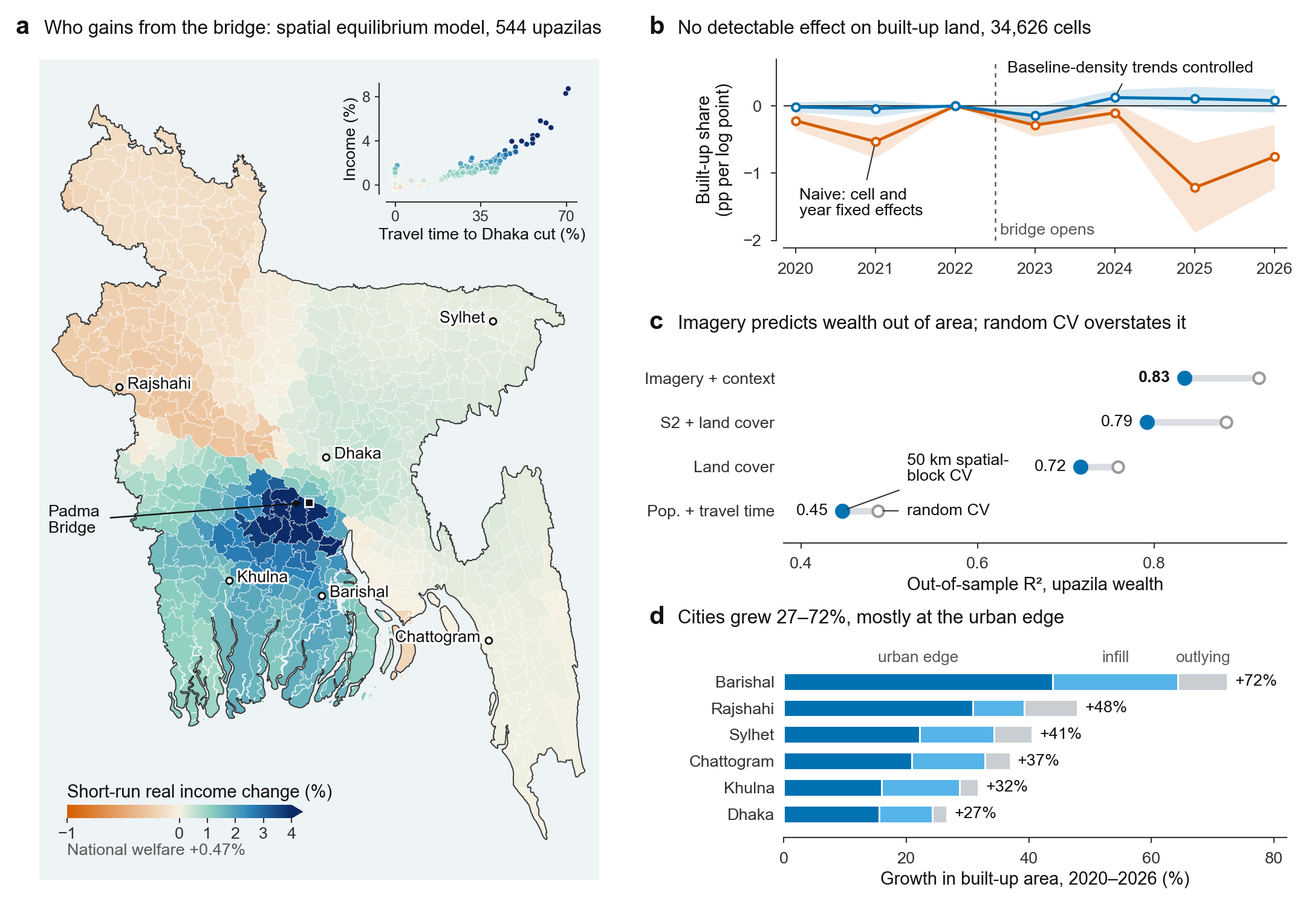
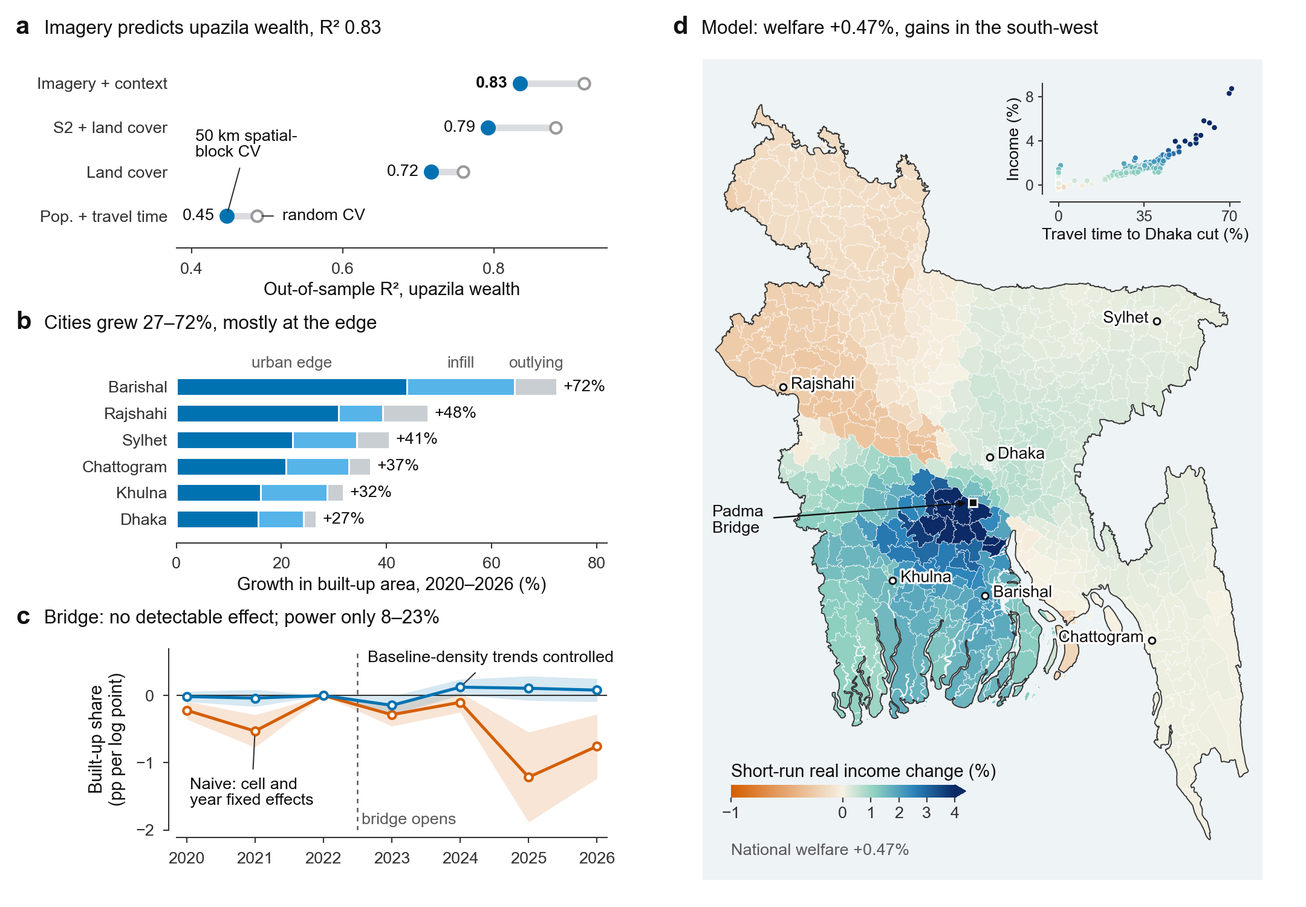
README: organise around one question in four steps; reorder Figure 1 to match

diff --git a/figures/make_figure1.py b/figures/make_figure1.py
@@ -1,4 +1,5 @@
-"""Figure 1 of the README: a map of the model-implied income change with three supporting panels.
+"""Figure 1 of the README: the four steps of the study, measurement (a), description (b), evaluation (c) and
+interpretation (d), with the model map as the large panel.
 
 Drawn from the committed result tables. The map needs the GADM 4.1 level-3 boundaries of Bangladesh
 (gadm41_BGD_3.json, from gadm.org), which are not stored in this repository.
@@ -53,7 +54,7 @@ def detach(ax):
         ax.spines[side].set_position(("outward", 3))
 
 
-def letter(fig, ax, s, title, x=0.497):
+def letter(fig, ax, s, title, x=0.012):
     box = ax.get_position()
     fig.text(x, box.y1 + 0.022, s, fontsize=10, fontweight="bold", va="bottom")
     fig.text(x + 0.022, box.y1 + 0.0235, title, fontsize=7.5, va="bottom")
@@ -73,7 +74,7 @@ def draw():
     g = gpd.read_file(GADM3)[["GID_3", "geometry"]]
     g = g[g.GID_3.isin(U)].copy()
     g["inc"] = [float(U[k]["real_income_sr_pct"]) for k in g.GID_3]
-    a = fig.add_axes([0.012, 0.03, 0.465, 0.905])
+    a = fig.add_axes([0.515, 0.03, 0.475, 0.905])
     a.set_facecolor(SEA)
     g.plot(column="inc", cmap=INCOME, norm=NORM, ax=a, edgecolor="white", linewidth=0.15)
     with warnings.catch_warnings():
@@ -93,7 +94,7 @@ def draw():
     a.set_xticks([]); a.set_yticks([])
     for s in a.spines.values():
         s.set_visible(False)
-    cax = a.inset_axes([0.05, 0.075, 0.42, 0.016])
+    cax = a.inset_axes([0.05, 0.10, 0.42, 0.016])
     cb = fig.colorbar(matplotlib.cm.ScalarMappable(norm=NORM, cmap=INCOME), cax=cax, orientation="horizontal",
                       ticks=[-1, 0, 1, 2, 3, 4], extend="max")
     cb.outline.set_visible(False); cb.ax.tick_params(length=2, width=0.5, labelsize=6.5, pad=1.5)
@@ -109,12 +110,12 @@ def draw():
     ins.set_ylabel("Income (%)", fontsize=6.5, labelpad=1.5)
     ins.set_xticks([0, 35, 70]); ins.set_yticks([0, 4, 8]); ins.tick_params(labelsize=6, length=1.8, pad=1.5)
     detach(ins)
-    fig.text(0.012, 0.957, "a", fontsize=10, fontweight="bold", va="bottom")
-    fig.text(0.034, 0.9585, f"Who gains from the bridge: spatial equilibrium model, {len(g)} upazilas", fontsize=7.5,
+    fig.text(0.515, 0.957, "d", fontsize=10, fontweight="bold", va="bottom")
+    fig.text(0.537, 0.9585, f"Model: welfare +{Q['welfare_sr_pct']:.2f}%, gains in the south-west", fontsize=7.5,
              va="bottom")
 
-    X0, W, H = 0.60, 0.385, 0.20
-    b, c, d = (fig.add_axes([X0, y, W, H]) for y in (0.735, 0.41, 0.085))
+    X0, W, H = 0.135, 0.33, 0.20
+    c, d, b = (fig.add_axes([X0, y, W, H]) for y in (0.735, 0.41, 0.085))
 
     # ---- b: event study, naive against controlled, shaded 95% intervals
     E = [r for r in rows(TB / "padma_event_study.csv") if r["sample"].startswith("2020-2026")]
@@ -133,7 +134,7 @@ def draw():
     leader(b, (2024, series["(2)"][-3][1]), (2022.65, 0.56), "Baseline-density trends controlled", ha="left")
     b.set_xlim(2019.85, 2026.15); b.set_ylim(-2.0, 0.7); b.set_xticks(range(2020, 2027)); b.set_yticks([-2, -1, 0])
     b.set_ylabel("Built-up share\n(pp per log point)")
-    detach(b); letter(fig, b, "b", "No detectable effect on built-up land, 34,626 cells")
+    detach(b); letter(fig, b, "c", "Bridge: no detectable effect; power only 8–23%")
 
     # ---- c: wealth prediction by feature set, spatial-block against random cross-validation
     Wr = [r for r in rows(TB / "wealth_prediction_results.csv") if r["target"] == "rwi"]
@@ -149,13 +150,13 @@ def draw():
         c.text(sp[k] - 0.016, i, f"{sp[k]:.2f}", ha="right", va="center", fontsize=6.5,
                fontweight="bold" if i == len(order) - 1 else "normal")
     top = len(order) - 1
-    leader(c, (sp[order[0]], 0), (0.52, 0.95), "50 km spatial-\nblock CV", linespacing=1.1, ha="left")
+    leader(c, (sp[order[0]], 0), (0.405, 1.62), "50 km spatial-\nblock CV", linespacing=1.1, ha="left")
     leader(c, (rd[order[0]], 0), (0.52, 0.0), "random CV", ha="left")
     c.set_yticks(range(len(order)), [names[k] for k in order]); c.tick_params(axis="y", length=0)
     c.set_xlim(0.38, 0.95); c.set_ylim(-0.55, top + 0.55); c.set_xticks([0.4, 0.6, 0.8])
     c.set_xlabel("Out-of-sample R², upazila wealth", labelpad=2)
     c.spines["left"].set_visible(False); c.spines["bottom"].set_position(("outward", 3))
-    letter(fig, c, "c", "Imagery predicts wealth out of area; random CV overstates it")
+    letter(fig, c, "a", "Imagery predicts upazila wealth, R² 0.83")
 
     # ---- d: built-up growth by city and where the new building is
     U0 = sorted(rows(TB / "urban_expansion_summary.csv"), key=lambda r: float(r["growth_pct"]))
@@ -174,7 +175,7 @@ def draw():
     d.set_xlim(0, 82); d.set_ylim(-0.6, len(U0) + 0.25); d.set_xticks([0, 20, 40, 60, 80])
     d.set_xlabel("Growth in built-up area, 2020–2026 (%)", labelpad=2)
     d.spines["left"].set_visible(False); d.spines["bottom"].set_position(("outward", 3))
-    letter(fig, d, "d", "Cities grew 27–72%, mostly at the urban edge")
+    letter(fig, d, "b", "Cities grew 27–72%, mostly at the edge")
     return fig
 
 

diff --git a/README.md b/README.md
@@ -1,85 +1,72 @@
-# Urban growth, wealth mapping and the Padma Bridge in Bangladesh
+# Can open satellite data evaluate a major transport investment? The Padma Bridge, Bangladesh
 
 [![tests](https://github.com/lyz44git/bangladesh-geoai/actions/workflows/tests.yml/badge.svg)](https://github.com/lyz44git/bangladesh-geoai/actions/workflows/tests.yml)
 
-<img src="figures/figure1.png" alt="Four-panel figure: map of model-implied income change by upazila with an inset against travel-time reduction; Padma Bridge event study; wealth-prediction accuracy by feature set; built-up growth by city." width="100%">
+**Short answer: it can measure, but four years in it cannot yet evaluate.** Free Sentinel-2 imagery measures built-up
+land well enough for city monitoring (F1 = 0.80) and predicts sub-district wealth well enough for geographic targeting
+(out-of-area R² = 0.83). Four years after the Padma Bridge opened, the same imagery shows no detectable change in
+built-up land. A calibrated spatial model explains why: the effect it predicts is one the evaluation design has only
+8–23% power to detect. The model puts the national welfare gain at +0.47%, concentrated in the south-west.
 
-**Figure 1 | Headline results.** **a**, Short-run real income change implied by the spatial equilibrium model, by upazila; the square marks the Padma Bridge and national welfare rises by 0.47%. Inset: the same change against the reduction in travel time to Dhaka, one point per upazila. **b**, Event-study estimates of the bridge's effect on built-up share with 95% intervals (shaded) across 34,626 cells; 2022 is the reference year, and the negative naive estimates disappear once trends by baseline density are controlled. **c**, Out-of-sample R² for upazila wealth by feature set under 50 km spatial-block cross-validation (filled) and random cross-validation (open). **d**, Growth in built-up area, 2020–2026, in the six largest cities, split by where the new building is. Drawn by [`figures/make_figure1.py`](figures/make_figure1.py) from `outputs/tables`, `docs/atlas` and the GADM 4.1 boundaries, which are not stored here.
+<img src="figures/figure1.png" alt="Four panels following the study's four steps: wealth-prediction accuracy by feature set; built-up growth in six cities; event study of the bridge's effect on built-up land; map of model-implied income change by upazila." width="100%">
 
-A Python package and pipeline that uses open satellite and geospatial data to measure urban expansion, map
-sub-district wealth, and evaluate the Padma Bridge (opened 25 June 2022) with a difference-in-differences design and
-a quantitative spatial equilibrium model.
+**Figure 1 | From measurement to evaluation.** **a**, Measurement: out-of-sample R² for upazila wealth by feature
+set under 50 km spatial-block (filled) and random (open) cross-validation. **b**, Description: growth in built-up
+area in the six largest cities, 2020–2026, split by where the new building is. **c**, Evaluation: event-study
+estimates of the bridge's effect on built-up share across 34,626 cells with 95% intervals (shaded), 2022 as
+reference; the negative naive estimates vanish once trends by baseline density are controlled. **d**,
+Interpretation: short-run real income change implied by the spatial equilibrium model, by upazila (square: the
+bridge); inset, the same change against the reduction in travel time to Dhaka. Drawn by
+[`figures/make_figure1.py`](figures/make_figure1.py) from the committed result tables and the GADM 4.1 boundaries,
+which are not stored here.
 
-> **Takeaway.** Free Sentinel-2 imagery measures built-up land well enough for city-level monitoring (F1 = 0.80) and
-> for allocating resources across sub-districts (out-of-area R² = 0.83), but four years of built-up imagery cannot
-> detect the bridge's effect: the estimate is a null with 8–23% power against the effect a calibrated spatial model
-> implies. The model puts the national welfare gain at +0.47%, concentrated in the south-west.
+Full write-up: [`docs/TECHNICAL_REPORT_EN.md`](docs/TECHNICAL_REPORT_EN.md) · Indicator atlas for 544 upazilas:
+[`docs/atlas/ATLAS.md`](docs/atlas/ATLAS.md)
 
-Full write-up: [`docs/TECHNICAL_REPORT_EN.md`](docs/TECHNICAL_REPORT_EN.md). Indicator atlas for 544 upazilas:
-[`docs/atlas/ATLAS.md`](docs/atlas/ATLAS.md) and [`docs/atlas/upazila_indicators.csv`](docs/atlas/upazila_indicators.csv).
+## The question
 
-## Questions
+The Padma Bridge, a 6.15 km road-rail bridge opened on 25 June 2022, replaced ferry crossings that often involved
+hours of queueing and connected the south-western divisions to Dhaka. Ex-ante appraisals projected national GDP gains
+above 1%. Household surveys that could check this arrive years later; satellite imagery is free, annual and covers
+every upazila. The study asks whether that imagery can support an early evaluation, in four steps, each a
+precondition for the next:
 
-1. **Measurement.** Can open satellite imagery measure urban growth and local wealth reliably, year by year, at
-   sub-district (upazila) level?
-2. **Spatial structure.** Are Bangladesh's largest cities growing by densification or by expansion at the edge?
-3. **Market access.** Did the Padma Bridge change where building happens in its first four years, how large are the
-   welfare gains a spatial model implies, and does the short-run evidence contradict the model?
+| Step | Question | Approach | Answer |
+|---|---|---|---|
+| 1. Measure | Is imagery accurate enough for annual measures of built-up land and wealth? | U-Net trained on WorldCover labels; wealth prediction under 50 km spatial-block cross-validation | Yes, for city monitoring and upazila-level targeting |
+| 2. Describe | What does it show where change is large? | Built-up area in the six largest cities, 2020–2026 | Growth of 27–72%, mostly at the urban edge |
+| 3. Evaluate | Did the bridge change where building happens? | Continuous-treatment difference-in-differences and event study, 34,626 cells × 7 seasons | No detectable effect once selection on trends is removed |
+| 4. Interpret | Is the null evidence that the bridge had no effect? | Two-sector spatial equilibrium model of 544 upazilas; power of the design against the model's prediction | No: 8–23% power; the model implies a welfare gain of +0.47% |
 
-## Data
+## 1. Measurement is accurate enough for monitoring and targeting
 
-All inputs are openly available. No data are stored in this repository; the scripts stream or download them.
-
-| Source | Use | Licence |
-|---|---|---|
-| Sentinel-2 L2A (ESA/Copernicus), via AWS Open Data and the Earth Search STAC API | Annual dry-season composites, 2018–2026 | Copernicus Sentinel data terms (free use with attribution) |
-| ESA WorldCover 2020 and 2021, 10 m | Built-up training labels, land-cover shares, water mask | CC BY 4.0 |
-| Meta Relative Wealth Index (Chi et al. 2022), via HDX | Wealth-mapping target (26,544 grid points) | CC BY-NC 4.0 |
-| Flowminder/WorldPop Bangladesh 1 km poverty map (2011) | Alternative target and external benchmark | CC BY 4.0 |
-| Meta/CIESIN High Resolution Settlement Layer | Population by cell and upazila | CC BY 4.0 |
-| Overture Maps transportation | Road, rail and ferry network for the travel-time model | ODbL 1.0 |
-| GADM 4.1 | Districts and upazilas | Free for academic and non-commercial use; no redistribution |
-
-Attribution: contains modified Copernicus Sentinel data (2018–2026); © ESA WorldCover project / contains modified
-Copernicus Sentinel data (2020, 2021) processed by the ESA WorldCover consortium; © OpenStreetMap contributors,
-Overture Maps Foundation.
-
-No boundary files or source rasters are redistributed here. Tables, maps and the atlas in `outputs/` and `docs/` are
-derived aggregates; those that include the Relative Wealth Index inherit its non-commercial terms, and the maps use
-GADM boundaries under its academic-use terms.
-
-**Use.** This is a non-commercial research project. The data and all derived outputs in this repository are used
-for research only.
-
-## Method
-
-| Module | Code | What it does |
-|---|---|---|
-| Compositing | `src/geoai/stac.py`, `composite.py` | Phenology-balanced dry-season composites with orbit-aware scene selection and gap filling |
-| Built-up mapping | `builtup.py`, `labels.py`, `scripts/02_builtup.py` | U-Net and gradient-boosting classifiers trained on WorldCover labels, validated on spatially held-out blocks |
-| Urban expansion | `scripts/03_urban_expansion.py` | Growth, infill / edge / outlying decomposition, radial density gradients, temporal-consistency diagnostics |
-| Wealth mapping | `features.py`, `mosaiks.py`, `models.py`, `scripts/05_wealth.py` | Predicting the Relative Wealth Index from imagery under 50 km spatial-block cross-validation |
-| Travel time | `travel.py`, `scripts/04_travel_time.py` | 500 m least-cost travel time to Dhaka with and without the bridge |
-| Causal design | `econ.py`, `scripts/06_padma_causal.py` | Continuous-treatment difference-in-differences and event study on 34,626 cells × 7 seasons, with randomization inference |
-| Spatial model | `qse.py`, `scripts/07_spatial_model.py` | Two-sector quantitative spatial equilibrium for 544 upazilas, solved by exact hat algebra; sensitivity and Bayesian reweighting |
-| Power | `scripts/09_power.py` | Power of the causal design against the model-implied effect |
-
-## Results
-
-### Measurement
-
-| Built-up classifier, six cities pooled (held-out blocks) | Precision | Recall | F1 |
+| Built-up classifier, six cities pooled (spatially held-out blocks) | Precision | Recall | F1 |
 |---|---|---|---|
 | U-Net | 0.86 | 0.75 | 0.80 |
 | Gradient boosting, default threshold | 0.52 | 0.96 | 0.67 |
 
-In the rural Padma region the U-Net reaches F1 = 0.66 (precision 0.79, recall 0.56). Compared with least-cloudy
-compositing, the phenology-balanced design lowers the year-to-year reversal rate by 25–52% and the trend-residual
-standard deviation by 29–75% across the six cities, noise that would otherwise be read as urban change.
+| Wealth prediction (Meta Relative Wealth Index) | R², grid cells | R², upazila means |
+|---|---|---|
+| Spatial blocks (50 km) | 0.45 | 0.83 |
+| Random folds | 0.50 | 0.92 |
 
-### Urban expansion, 2020–2026
+- **Compositing matters more than the classifier for change over time.** Compared with least-cloudy compositing, the
+  phenology-balanced design lowers the year-to-year reversal rate by 25–52% and the trend-residual standard deviation
+  by 29–75% across the six cities. Without it, seasonal noise would be read as urban change and would contaminate the
+  event study in step 3.
+- **Accuracy falls where settlement is sparse.** In the rural Padma region (1.3% built-up) the U-Net reaches F1 = 0.66
+  (precision 0.79, recall 0.56).
+- **Random cross-validation overstates wealth accuracy**; the spatial-block figures are the ones that apply to
+  out-of-area prediction. In the best imagery model, built-up land cover alone accounts for 31% of the gain.
 
-| City | Built-up growth | Share of new built-up land at the edge |
+The wealth index also sets relative wages in the spatial model of step 4; the imagery model shows that this input
+can be largely reproduced from imagery out of area.
+
+![Relative Wealth Index by upazila; accuracy by feature set under spatial-block and random cross-validation; accuracy against a second poverty map; share of model gain by feature group](outputs/figures/wealth_maps_and_accuracy.png)
+
+## 2. Where change is large, cities grow at the edge
+
+| City | Built-up growth, 2020–2026 | Share of new built-up land at the edge |
 |---|---|---|
 | Dhaka | +27% | 58% |
 | Chattogram | +37% | 57% |
@@ -88,27 +75,19 @@ standard deviation by 29–75% across the six cities, noise that would otherwise
 | Sylhet | +41% | 55% |
 | Barishal | +72% | 61% |
 
-Growth is mostly edge expansion, and radial density gradients flatten in every city with a measurable gradient.
+Edge expansion accounts for 50–64% of new built-up land, and radial density gradients flatten in every city with a
+measurable gradient. The cities add 4.0–9.5% to their built-up area each year. The rural areas the bridge reaches
+start from 0.37% built-up, so any bridge effect on built-up land is small in absolute terms, a fact that matters in
+step 4.
 
 ![Built-up land in 2020 and land added by 2026 in six cities, each with a 10 km scale bar](outputs/figures/urban_change_maps.png)
 
 ![Smoothed built-up area by city, density gradients in 2020 and 2026, and the share of pixels that flip back under two compositing methods](outputs/figures/urban_area_and_profiles.png)
 
-### Wealth mapping
+## 3. The bridge: no detectable effect on built-up land
 
-| Validation | R², grid cells | R², upazila means |
-|---|---|---|
-| Spatial blocks (50 km) | 0.45 | 0.83 |
-| Random folds | 0.50 | 0.92 |
-
-Random cross-validation overstates accuracy; the spatial-block figures are the ones to use for out-of-area
-prediction. Most of the predictive power comes from the built environment.
-
-![Relative Wealth Index by upazila; accuracy by feature set under spatial-block and random cross-validation; accuracy against a second poverty map; share of model gain by feature group](outputs/figures/wealth_maps_and_accuracy.png)
-
-### The Padma Bridge: causal evidence
-
-Effect of a one-log-point reduction in travel time to Dhaka on built-up share (percentage points):
+Treatment is the modelled reduction in travel time to Dhaka (log points), which varies continuously across 34,626
+cells. Effect of a one-log-point reduction on built-up share (percentage points):
 
 | Specification | Coefficient | 95% CI | Randomization p |
 |---|---|---|---|
@@ -117,25 +96,65 @@ Effect of a one-log-point reduction in travel time to Dhaka on built-up share (p
 | (3) + division × year fixed effects | −0.002 | −0.13 to 0.12 | 0.98 |
 | (2) with district clusters | 0.060 | −0.11 to 0.23 | |
 
-The negative estimate in (1) is selection on trends: treated areas are far more rural (0.37% built-up before opening
-against 2.22%) and add fewer percentage points each year. Once baseline-density-specific trends are controlled, the
-pre-trends disappear and the effect is a null. A binary-treatment version of (2) is positive (0.097, CI 0.03 to 0.17)
-but does not survive district clustering or randomization inference.
+- **The naive negative estimate is selection on trends.** Treated areas are far more rural (0.37% built-up before
+  opening against 2.22%) and add fewer percentage points each year. Controlling for trends by baseline density removes
+  the pre-trends, and the estimate becomes a null.
+- **The null is robust** to ferry speed, the outcome definition, and dropping cells near the bridge or near Dhaka. A
+  binary-treatment version of (2) is positive (0.097, CI 0.03 to 0.17) but does not survive district clustering or
+  randomization inference.
+
+A null can mean that the bridge had no effect or that the test could not see one. Step 4 asks which.
 
 ![Travel-time reduction to Dhaka by upazila; event-study estimates under three specifications; the coefficient under alternative choices](outputs/figures/padma_treatment_and_event_study.png)
 
-### Structural incidence and power
+## 4. The null is uninformative; the model implies a gain of +0.47%
 
-- National welfare gain +0.47% at the main parameters; 0.30–0.79% across the parameter grid, and 0.30–0.55% with the
-  non-traded share held at its main value.
-- Real income rises 1.9% in treated upazilas and 0.15% elsewhere; Rajshahi and Rangpur lose slightly through trade
-  diversion.
-- Omitting the local non-traded sector raises the estimated gain to 0.79%, about 70% higher.
-- At full long-run adjustment the model implies a built-up coefficient of 0.059, almost exactly the empirical point
-  estimate. Against that effect the causal design has 8–10% power with district clustering and 17–23% with upazila
-  clustering, so the null is uninformative about welfare.
+- **The model's predicted effect sits inside the confidence interval.** At full long-run adjustment the model implies
+  a built-up coefficient of 0.059, almost exactly the point estimate of 0.060.
+- **The design cannot detect an effect of that size.** Its power is 8–10% with district clustering and 17–23% with
+  upazila clustering; 80% power would need a standard error about one-fifth of the district-clustered one.
+- **Welfare and incidence.** National welfare rises by 0.47% at the main parameters (0.30–0.79% across the parameter
+  grid). Real income rises 1.9% in treated upazilas and 0.15% elsewhere; Rajshahi and Rangpur lose slightly through
+  trade diversion.
+- **The non-traded sector matters.** Omitting it raises the estimated gain to 0.79%, about 70% higher.
 
 ![Long-run population change by upazila; welfare gain across parameter values; model-implied coefficient against the estimate; power of the causal design](outputs/figures/qse_padma.png)
+
+## Implications
+
+1. **Targeting.** Satellite wealth maps are fit for allocating resources across upazilas, provided they are validated
+   with spatial-block rather than random cross-validation.
+2. **Monitoring.** Any satellite outcome used in a panel needs temporal-consistency diagnostics; the reliability of
+   year-to-year change depends more on compositing than on the classifier.
+3. **Early evaluation.** Three to four years of built-up imagery should not be read as a verdict on a transport
+   investment. The expected effect size and the power of the design should be set out first, for example from a
+   calibrated model.
+4. **Appraisal.** Spatial models used for appraisal should include a non-traded sector and report gains and losses by
+   region.
+
+## Limitations
+
+- Wealth labels are model-based gridded layers, not household survey microdata.
+- The 2018–2019 Sentinel-2 archive comes from a different processing baseline and cannot extend the pre-period; a
+  placebo opening in 2020 fails for that measurement reason.
+- Treatment varies smoothly over space, and the Dhaka–Mawa–Bhanga expressway (2020) and the Padma rail link
+  (2023–24) cannot be separated from the bridge.
+- The spatial model is static, covers goods trade only and is calibrated, not estimated; its welfare numbers exclude
+  passenger time savings and commuting.
+
+## Code map
+
+| Step | Module | Code | What it does |
+|---|---|---|---|
+| 1 | Compositing | `src/geoai/stac.py`, `composite.py` | Phenology-balanced dry-season composites with orbit-aware scene selection and gap filling |
+| 1 | Built-up mapping | `builtup.py`, `labels.py`, `scripts/02_builtup.py` | U-Net and gradient-boosting classifiers trained on WorldCover labels, validated on spatially held-out blocks |
+| 1 | Wealth mapping | `features.py`, `mosaiks.py`, `models.py`, `scripts/05_wealth.py` | Predicting the Relative Wealth Index from imagery under 50 km spatial-block cross-validation |
+| 2 | Urban expansion | `scripts/03_urban_expansion.py` | Growth, infill / edge / outlying decomposition, radial density gradients, temporal-consistency diagnostics |
+| 3 | Travel time | `travel.py`, `scripts/04_travel_time.py` | 500 m least-cost travel time to Dhaka with and without the bridge |
+| 3 | Causal design | `econ.py`, `scripts/06_padma_causal.py` | Continuous-treatment difference-in-differences and event study, with randomization inference |
+| 4 | Spatial model | `qse.py`, `scripts/07_spatial_model.py` | Two-sector quantitative spatial equilibrium for 544 upazilas, solved by exact hat algebra; sensitivity and Bayesian reweighting |
+| 4 | Power | `scripts/09_power.py` | Power of the causal design against the model-implied effect |
+| | Atlas and figures | `scripts/08_atlas.py`, `figures/` | Upazila indicator atlas; the figures in this README and the report |
 
 ## Reproduce
 
@@ -171,20 +190,35 @@ pytest -q
 17 offline unit tests cover the grid, compositing, labels, features, models, the fixed-effects estimators and the
 equilibrium solver (one needs PyTorch and is skipped without it). They run on every push.
 
-## Scope
+## Data and licences
 
-- Wealth labels are model-based gridded layers, not household survey microdata.
-- The 2018–2019 Sentinel-2 archive comes from a different processing baseline and cannot extend the pre-period; a
-  placebo opening in 2020 fails for that measurement reason.
-- Treatment varies smoothly over space, and the Dhaka–Mawa–Bhanga expressway (2020) and the Padma rail link
-  (2023–24) cannot be separated from the bridge.
-- The spatial model is static, covers goods trade only and is calibrated, not estimated; its welfare numbers are a
-  lower bound that excludes passenger time savings and commuting.
+All inputs are openly available. No data are stored in this repository; the scripts stream or download them.
+
+| Source | Use | Licence |
+|---|---|---|
+| Sentinel-2 L2A (ESA/Copernicus), via AWS Open Data and the Earth Search STAC API | Annual dry-season composites, 2018–2026 | Copernicus Sentinel data terms (free use with attribution) |
+| ESA WorldCover 2020 and 2021, 10 m | Built-up training labels, land-cover shares, water mask | CC BY 4.0 |
+| Meta Relative Wealth Index (Chi et al. 2022), via HDX | Wealth-mapping target (26,544 grid points) | CC BY-NC 4.0 |
+| Flowminder/WorldPop Bangladesh 1 km poverty map (2011) | Alternative target and external benchmark | CC BY 4.0 |
+| Meta/CIESIN High Resolution Settlement Layer | Population by cell and upazila | CC BY 4.0 |
+| Overture Maps transportation | Road, rail and ferry network for the travel-time model | ODbL 1.0 |
+| GADM 4.1 | Districts and upazilas | Free for academic and non-commercial use; no redistribution |
+
+Attribution: contains modified Copernicus Sentinel data (2018–2026); © ESA WorldCover project / contains modified
+Copernicus Sentinel data (2020, 2021) processed by the ESA WorldCover consortium; © OpenStreetMap contributors,
+Overture Maps Foundation.
+
+No boundary files or source rasters are redistributed here. Tables, maps and the atlas in `outputs/` and `docs/` are
+derived aggregates; those that include the Relative Wealth Index inherit its non-commercial terms, and the maps use
+GADM boundaries under its academic-use terms.
+
+**Use.** This is a non-commercial research project. The data and all derived outputs in this repository are used
+for research only.
 
 ## Licence
 
 Code is released under the MIT licence (see `LICENSE`). The datasets and the derived outputs keep the terms listed
-under Data.
+under Data and licences.
 
 ## Notes
 
